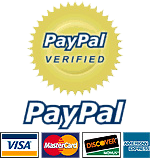
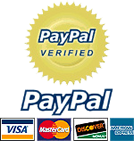
links to each book changed

diff --git a/app/assets/stylesheets/books.css.scss b/app/assets/stylesheets/books.css.scss
@@ -5,7 +5,37 @@
   margin-top:20px;
   
   .box-options {
-    padding-left:0;
+    padding:0;
+
+    a {
+      float:left;
+
+      &:first-child {
+        margin:0 40px 0 45px;
+      }
+    }
+
+    .mujer {
+      background:url(books/mujer-en-forma-btn.png) no-repeat 0 -70px;
+      width:135px;
+      height:70px;
+      
+
+      &.current, &:hover {
+        background-position:0 0;
+      }
+    }
+
+    .entrenate {
+      background:url(books/entrenate-btn.png) no-repeat 0 -42px;
+      width:160px;
+      height:42px;
+      margin-top:14px;
+
+      &.current, &:hover {
+        background-position:0 0;
+      }
+    }
   }
 }
 
@@ -101,19 +131,26 @@ h3 {
     
     .paypal {
       position:absolute;
-      top:66px;
-      right:10px;
+      top:60px;
+      right:19px;
     }
     
     .buy-now {
       position:absolute;
       right:16px;
-      bottom:180px;
+      bottom:182px;
       border:none;
     }
-    
+
+    .buy-outside {
+      position:absolute;
+      right:16px;
+      bottom:255px;
+      border:none;
+    }
+
     .pay-on-delivery {
-      position:absolute; bottom:10px; right:11px; text-align:center;
+      position:absolute; bottom:14px; right:11px; text-align:center;
       padding:4px 10px;
       text-decoration:none;
       @include border-radius(6px);

diff --git a/app/assets/stylesheets/visual-guide-editorial.css.scss b/app/assets/stylesheets/visual-guide-editorial.css.scss
@@ -1,16 +1,49 @@
 @import "partials/common_properties";
 
-
 .nav-section {
+
   &.editorial {
     background:none;
-    margin-top:0;
-
+    margin-top:10px;
+       
     .box-options {
-      padding-left:0;
+      float:left;
+      width:689px;
       background:none;
-    }
+      padding:0;
+
+      a {
+        float:left;
+
+        &:first-child {
+          margin:0 40px 0 45px;
+        }
+      }
+
+      .mujer {
+        background:url(books/mujer-en-forma-btn.png) no-repeat 0 -70px;
+        width:135px;
+        height:70px;
+        
+
+        &.current, &:hover {
+          background-position:0 0;
+        }
+      }
+
+      .entrenate {
+        background:url(books/entrenate-btn.png) no-repeat 0 -42px;
+        width:160px;
+        height:42px;
+        margin-top:14px;
+
+        &.current, &:hover {
+          background-position:0 0;
+        }
+      }
+    }        
   }
+  
 }
 
 h3 {

diff --git a/app/assets/stylesheets/visual-guide.css.scss b/app/assets/stylesheets/visual-guide.css.scss
@@ -12,6 +12,7 @@ $big-level-width:124px;
 
   &#section-editorial {
     margin-top:0;
+    height:61px;
   }
 
  .box-options {

diff --git a/db/seeds.rb b/db/seeds.rb
@@ -257,7 +257,7 @@ puts
 
 
 # Create book "Mujer"
-@book = Book.create :title => "Mujer"
+@book = Book.create :title => "Mujer en forma"
 
 # Create some videos for the book "Mujer"
 @book.videos.create :code => "345ABC", :video => '<iframe width="560" height="315" src="http://www.youtube.com/embed/l78yD0NMM9I" frameborder="0" allowfullscreen></iframe>'
